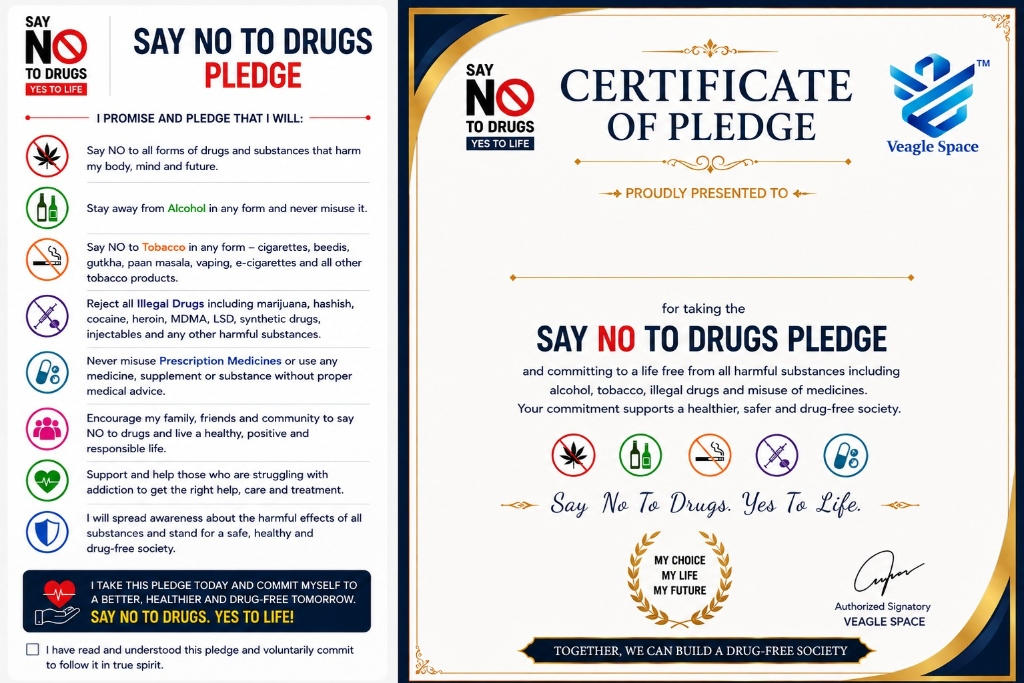
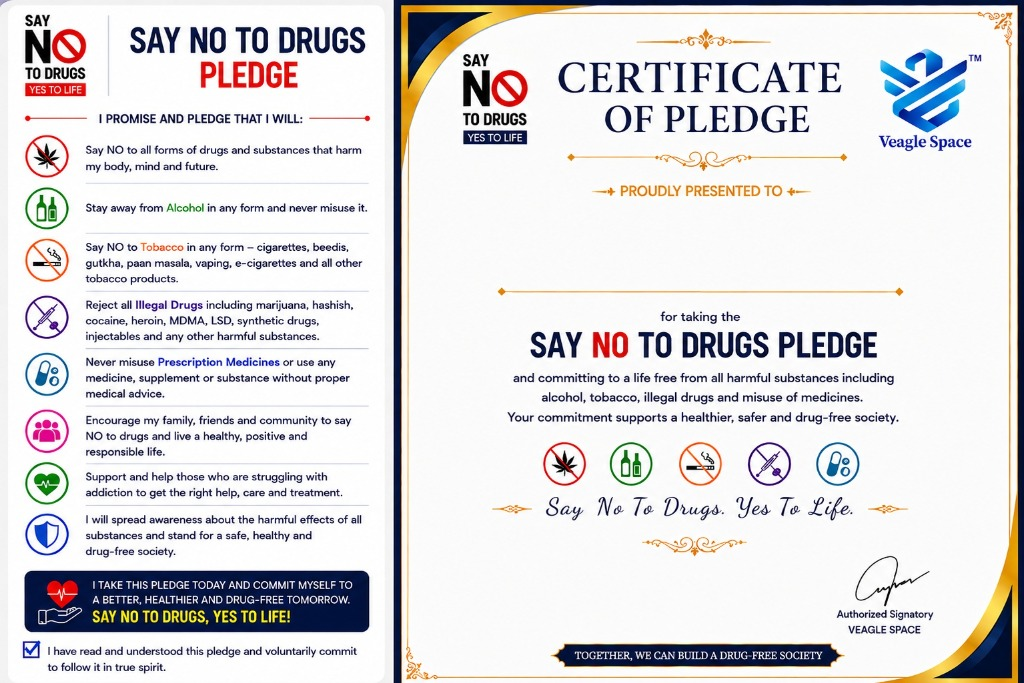
feat: Replace email certificate flow with direct download & update admin UI

Changed region(s): [[0.0, 0.0, 1.0, 1.0], [0.0, 0.0, 0.0938, 0.1537]]

diff --git a/server/services/certificateService.js b/server/services/certificateService.js
@@ -22,10 +22,12 @@ export const generateCertificate = async (
 
   const pdfDoc = await PDFDocument.create();
 
-  // Required for custom TTF fonts
   pdfDoc.registerFontkit(fontkit);
 
-  // Standard fonts
+  // ============================================================
+  // FONTS
+  // ============================================================
+
   const timesRomanFont = await pdfDoc.embedFont(
     StandardFonts.TimesRoman
   );
@@ -89,13 +91,13 @@ export const generateCertificate = async (
       );
     }
 
-    const templateBytes =
-      fs.readFileSync(templatePath);
+    const templateBytes = fs.readFileSync(
+      templatePath
+    );
 
     const templateImage =
       await pdfDoc.embedJpg(templateBytes);
 
-    // Full template background
     page.drawImage(templateImage, {
       x: 0,
       y: 0,
@@ -108,7 +110,6 @@ export const generateCertificate = async (
       error
     );
 
-    // Fallback background
     page.drawRectangle({
       x: 0,
       y: 0,
@@ -124,22 +125,6 @@ export const generateCertificate = async (
 
   // ============================================================
   // CERTIFICATE AREA
-  // ============================================================
-  //
-  // The uploaded template is 1024 x 683.
-  //
-  // Left side:
-  //   Pledge content
-  //
-  // Right side:
-  //   Certificate
-  //
-  // The right certificate panel visually starts around x=400
-  // and ends around x=1015.
-  //
-  // Actual visual center:
-  //   ~707
-  //
   // ============================================================
 
   const CERT_LEFT = 400;
@@ -160,40 +145,9 @@ export const generateCertificate = async (
     ? customFont
     : timesRomanBoldFont;
 
-  /*
-   * IMPORTANT:
-   *
-   * PDF coordinate system starts from bottom-left.
-   *
-   * In the original code:
-   *
-   *   y = height * 0.62
-   *
-   * the name was ending up too low / misaligned.
-   *
-   * New position places the name between:
-   *
-   *   PROUDLY PRESENTED TO
-   *
-   * and
-   *
-   *   horizontal decorative line
-   */
-
   const NAME_Y = 431;
 
-  /*
-   * Maximum width available for the name.
-   *
-   * This prevents long names from touching
-   * the decorative borders.
-   */
-
   const MAX_NAME_WIDTH = 350;
-
-  /*
-   * Start with 34pt.
-   */
 
   let nameSize = 34;
 
@@ -203,11 +157,8 @@ export const generateCertificate = async (
       nameSize
     );
 
-  /*
-   * Automatically reduce font size
-   * for long names.
-   */
-
+  // Automatically reduce font size
+  // for long names
   while (
     nameWidth > MAX_NAME_WIDTH &&
     nameSize > 20
@@ -220,10 +171,6 @@ export const generateCertificate = async (
         nameSize
       );
   }
-
-  /*
-   * Final centered X position.
-   */
 
   const nameX =
     CERT_CENTER_X -
@@ -253,19 +200,16 @@ export const generateCertificate = async (
     `${clientUrl}/verify/${certificateNumber}`;
 
   // ============================================================
-  // QR CODE
+  // GENERATE QR CODE
   // ============================================================
 
   const qrDataUrl =
     await QRCode.toDataURL(
       verifyUrl,
       {
-        margin: 1,
-
-        // High error correction makes the QR
-        // more reliable when printed.
         errorCorrectionLevel: 'H',
-
+        margin: 1,
+        width: 300,
         color: {
           dark: '#0a192f',
           light: '#ffffff',
@@ -290,25 +234,24 @@ export const generateCertificate = async (
   //
   // IMPORTANT:
   //
-  // The CEO signature is already part of
-  // certificate_full.jpg.
+  // This position matches the QR location
+  // from the reference certificate image.
   //
-  // Original QR:
+  // Template size:
+  // 1024 x 683
   //
-  //   x = 885
-  //   y = 85
+  // QR:
+  // X    = 443
+  // Y    = 82
+  // Size = 65
   //
-  // This overlaps the signature.
-  //
-  // New QR is moved to the empty area
-  // LEFT of the signature.
+  // PDF coordinates start from bottom-left.
   //
   // ============================================================
 
-  const QR_SIZE = 62;
-
-  const QR_X = 755;
-  const QR_Y = 83;
+  const QR_X = 443;
+  const QR_Y = 82;
+  const QR_SIZE = 65;
 
   page.drawImage(qrImage, {
     x: QR_X,
@@ -321,11 +264,8 @@ export const generateCertificate = async (
   // DATE + CERTIFICATE ID
   // ============================================================
 
-  const dateText =
-    `Date: ${date}`;
-
-  const idText =
-    `ID: ${certificateNumber}`;
+  const dateText = `Date: ${date}`;
+  const idText = `ID: ${certificateNumber}`;
 
   const META_FONT_SIZE = 9;
 
@@ -341,13 +281,10 @@ export const generateCertificate = async (
       META_FONT_SIZE
     );
 
-  /*
-   * Center Date + ID under QR.
-   */
+  // Center Date and ID exactly under QR
 
   const qrCenterX =
-    QR_X +
-    QR_SIZE / 2;
+    QR_X + QR_SIZE / 2;
 
   // ============================================================
   // DATE
@@ -380,7 +317,7 @@ export const generateCertificate = async (
       qrCenterX -
       idWidth / 2,
 
-    y: QR_Y - 25,
+    y: QR_Y - 26,
 
     size: META_FONT_SIZE,
 

diff --git a/client/src/app/admin/users/page.js b/client/src/app/admin/users/page.js
@@ -1,11 +1,12 @@
 'use client';
-import { Download, Search, CheckCircle2, Clock, Filter, ChevronLeft, ChevronRight } from 'lucide-react';
+import { Download, Search, CheckCircle2, Clock, Filter, ChevronLeft, ChevronRight, Eye } from 'lucide-react';
 import { useGetAdminPledgesQuery } from '../../../redux/api/apiSlice';
 import { useState, useMemo } from 'react';
 import Link from 'next/link';
 
 export default function UsersPage() {
   const { data, isLoading } = useGetAdminPledgesQuery();
+  const apiUrl = process.env.NEXT_PUBLIC_API_URL || 'http://localhost:5000/api';
   const [searchTerm, setSearchTerm] = useState('');
   const [statusFilter, setStatusFilter] = useState('all'); // 'all', 'generated', 'pending'
   const [currentPage, setCurrentPage] = useState(1);
@@ -143,12 +144,37 @@ export default function UsersPage() {
                     )}
                   </td>
                   <td className="px-6 py-4 text-right">
-                    <Link 
-                      href={`/admin/users/${pledge.id}`}
-                      className="inline-flex items-center justify-center px-4 py-2 bg-[#FFF9F2] hover:bg-[#FF9933]/10 text-[#FF9933] font-semibold rounded-lg transition-colors border border-[#FF9933]/20"
-                    >
-                      View Details
-                    </Link>
+                    <div className="flex items-center justify-end gap-2">
+                      <Link 
+                        href={`/admin/users/${pledge.id}`}
+                        className="inline-flex items-center justify-center px-4 py-2 bg-[#FFF9F2] hover:bg-[#FF9933]/10 text-[#FF9933] font-semibold rounded-lg transition-colors border border-[#FF9933]/20"
+                      >
+                        View Details
+                      </Link>
+                      {pledge.certificates && pledge.certificates.length > 0 && (
+                        <>
+                          <a
+                            href={`${apiUrl}/pledges/download/${pledge.certificates[0].certificateNumber}`}
+                            target="_blank"
+                            rel="noopener noreferrer"
+                            className="inline-flex items-center justify-center px-3 py-2 bg-slate-100 hover:bg-slate-200 text-slate-700 font-semibold rounded-lg transition-colors border border-slate-200"
+                            title="Preview Certificate"
+                          >
+                            <Eye size={18} />
+                          </a>
+                          <a
+                            href={`${apiUrl}/pledges/download/${pledge.certificates[0].certificateNumber}`}
+                            download
+                            target="_blank"
+                            rel="noopener noreferrer"
+                            className="inline-flex items-center justify-center px-3 py-2 bg-[#138808]/10 hover:bg-[#138808]/20 text-[#138808] font-semibold rounded-lg transition-colors border border-[#138808]/20"
+                            title="Download Certificate"
+                          >
+                            <Download size={18} />
+                          </a>
+                        </>
+                      )}
+                    </div>
                   </td>
                 </tr>
               ))}

diff --git a/server/controllers/pledgeController.js b/server/controllers/pledgeController.js
@@ -4,7 +4,6 @@ import { v4 as uuidv4 } from 'uuid';
 import { prisma } from '../config/prisma.js';
 import { config } from '../config/index.js';
 import { generateCertificate } from '../services/certificateService.js';
-import { sendCertificateEmail } from '../services/emailService.js';
 
 // @desc    Create a pledge
 // @route   POST /api/pledges/create
@@ -95,16 +94,6 @@ export const createPledge = asyncHandler(async (req, res) => {
       verificationToken
     }
   });
-
-  // Send email asynchronously without awaiting to speed up response
-  sendCertificateEmail(user.email, user.name, certNumber, pdfBuffer).then(async (emailSent) => {
-    if (emailSent) {
-      await prisma.certificate.update({
-        where: { id: certificate.id },
-        data: { emailStatus: 'sent' }
-      });
-    }
-  }).catch(console.error);
 
   res.json({ success: true, pledgeId: pledge.id, certificateNumber: certNumber, message: 'Pledge created successfully' });
 });
@@ -246,4 +235,34 @@ export const verifyCertificate = asyncHandler(async (req, res) => {
       status: 'VERIFIED'
     }
   });
+});
+
+// @desc    Download Certificate
+// @route   GET /api/pledges/download/:certId
+// @access  Public
+export const downloadCertificate = asyncHandler(async (req, res) => {
+  const certificate = await prisma.certificate.findUnique({
+    where: { certificateNumber: req.params.certId },
+    include: { pledge: { include: { user: true } } }
+  });
+
+  if (!certificate) {
+    res.status(404);
+    throw new Error('Certificate not found');
+  }
+
+  let config = await prisma.siteConfig.findUnique({ where: { id: 1 } });
+  
+  const dateStr = certificate.generatedAt.toLocaleDateString('en-GB', { day: '2-digit', month: 'short', year: 'numeric' });
+  const pdfBuffer = await generateCertificate(
+    certificate.pledge.user.name,
+    certificate.certificateNumber,
+    dateStr,
+    certificate.pledge.language,
+    config
+  );
+
+  res.setHeader('Content-Type', 'application/pdf');
+  res.setHeader('Content-Disposition', `attachment; filename="certificate-${certificate.certificateNumber}.pdf"`);
+  res.send(pdfBuffer);
 });

diff --git a/client/src/app/pledge/success/page.js b/client/src/app/pledge/success/page.js
@@ -8,6 +8,7 @@ import { Suspense } from 'react';
 function SuccessContent() {
   const searchParams = useSearchParams();
   const certId = searchParams.get('cert');
+  const apiUrl = process.env.NEXT_PUBLIC_API_URL || 'http://localhost:5000/api';
 
   return (
     <div className="min-h-screen bg-[#FFF9F2] flex items-center justify-center p-4 relative">
@@ -41,9 +42,16 @@ function SuccessContent() {
             </div>
             <p className="text-sm text-[#6b7280] mb-1">Your Certificate ID</p>
             <p className="font-mono font-bold text-xl text-[#1a1a1a] tracking-wider">{certId}</p>
-            <p className="text-xs text-[#FF9933] mt-3 font-medium bg-[#FF9933]/8 py-2 rounded-lg border border-[#FF9933]/15">
-              We have sent the certificate PDF to your email.
-            </p>
+            <a
+              href={`${apiUrl}/pledges/download/${certId}`}
+              download
+              target="_blank"
+              rel="noopener noreferrer"
+              className="mt-4 w-full inline-flex items-center justify-center gap-2 bg-[#FF9933]/10 text-[#FF9933] hover:bg-[#FF9933] hover:text-white font-bold py-2.5 rounded-lg border border-[#FF9933]/20 transition-all"
+            >
+              <FileText size={18} />
+              Download Certificate
+            </a>
           </div>
         )}
 

diff --git a/server/routes/pledge.js b/server/routes/pledge.js
@@ -5,7 +5,8 @@ import {
   donationSuccess, 
   donationFailure, 
   completePledge, 
-  verifyCertificate 
+  verifyCertificate,
+  downloadCertificate
 } from '../controllers/pledgeController.js';
 
 const router = express.Router();
@@ -16,5 +17,6 @@ router.post('/donate/success', donationSuccess);
 router.post('/donate/failure', donationFailure);
 router.post('/complete', completePledge);
 router.get('/verify/:certId', verifyCertificate);
+router.get('/download/:certId', downloadCertificate);
 
 export default router;
